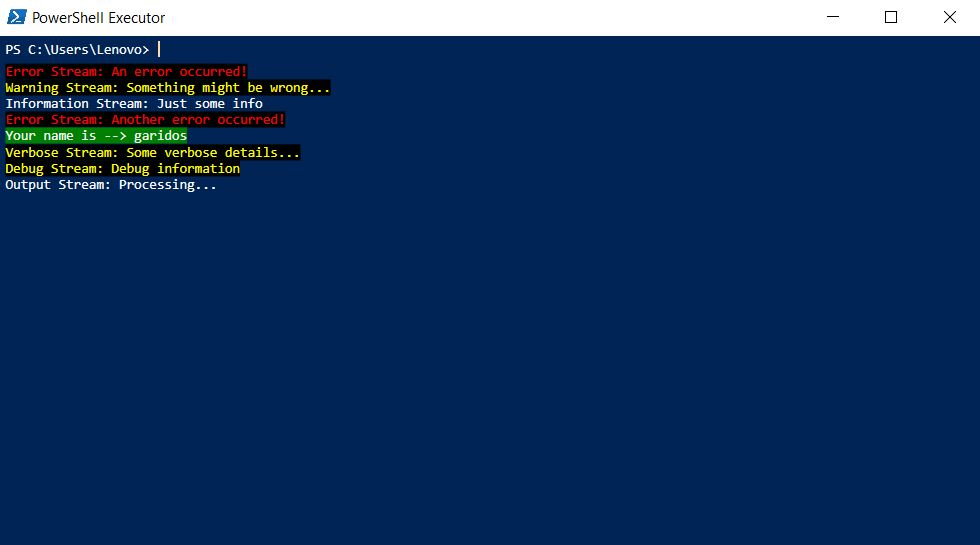
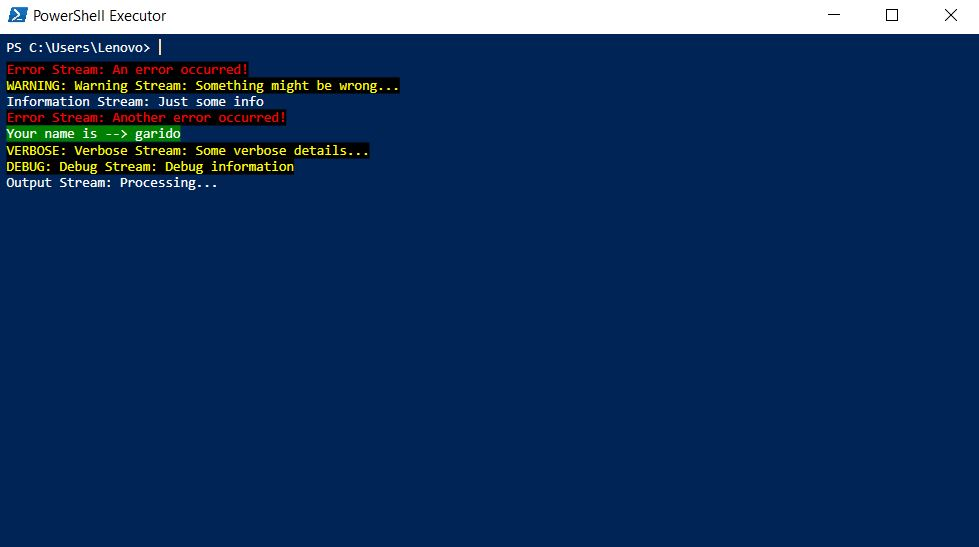
Improve stream output formatting and update example image

Changed region(s): [[0.0, 0.0, 1.0, 0.3743]]

diff --git a/PowerShellExecutor/PowerShellExecutor/ViewModels/MainWindowViewModel.cs b/PowerShellExecutor/PowerShellExecutor/ViewModels/MainWindowViewModel.cs
@@ -42,13 +42,7 @@ public class MainWindowViewModel
     private Task<PSObject?>? _commandExecutionTask;
     
     private readonly Action _closeWindowAction;
-    
     private readonly RichTextBox _commandResultRichTextBox;
-    
-    /// <summary>
-    /// Gets the bindings instance that contains properties and commands for data binding in the main window ViewModel
-    /// </summary>
-    public MainWindowViewModelBindings Bindings { get; }
 
     /// <summary>
     /// Initializes a new instance of the <see cref="MainWindowViewModel"/> class
@@ -94,31 +88,11 @@ public class MainWindowViewModel
         // Set initial working directory path
         Bindings.WorkingDirectoryPath = _powerShellService.WorkingDirectoryPath;
     }
-
-    private void HandleErrorStreamInput(ErrorRecord errorRecord)
-    {
-        CommandResultAddLine(errorRecord.ToSingleLineString(), CommandOutputColors.Error);
-    }
-
-    private void HandleWarningStreamInput(WarningRecord warningMessage)
-    {
-        CommandResultAddLine(warningMessage.ToSingleLineString(), CommandOutputColors.Warning);
-    }
-
-    private void HandleVerboseStreamInput(VerboseRecord verboseMessage)
-    {
-        CommandResultAddLine(verboseMessage.ToSingleLineString(), CommandOutputColors.Verbose);
-    }
-
-    private void HandleDebugStreamInput(DebugRecord debugMessage)
-    {
-        CommandResultAddLine(debugMessage.ToSingleLineString(), CommandOutputColors.Debug);
-    }
-
-    private void HandleInformationStreamInput(InformationRecord informationMessage)
-    {
-        CommandResultAddLine(informationMessage.ToSingleLineString(), CommandOutputColors.Information);
-    }
+    
+    /// <summary>
+    /// Gets the bindings instance that contains properties and commands for data binding in the main window ViewModel
+    /// </summary>
+    public MainWindowViewModelBindings Bindings { get; }
 
     /// <summary>
     /// Writes the specified objects to the host output using the specified colors and format options
@@ -391,6 +365,51 @@ public class MainWindowViewModel
             _commandResultRichTextBox.Document?.Blocks.Clear();
         });
     }
+    
+    /// <summary>
+    /// Handles input from the PowerShell's error stream
+    /// </summary>
+    /// <param name="errorRecord">
+    /// The <see cref="ErrorRecord"/> object representing the error details from the PowerShell execution
+    /// </param>
+    private void HandleErrorStreamInput(ErrorRecord errorRecord) =>
+        CommandResultAddLine(errorRecord.ToSingleLineString(), CommandOutputColors.Error);
+
+    /// <summary>
+    /// Handles input from the PowerShell's warning stream
+    /// </summary>
+    /// <param name="warningRecord">
+    /// The <see cref="WarningRecord"/> object representing the error details from the PowerShell execution
+    /// </param>
+    private void HandleWarningStreamInput(WarningRecord warningRecord) =>
+        CommandResultAddLine(warningRecord.ToSingleLineString("WARNING: "), CommandOutputColors.Warning);
+
+    /// <summary>
+    /// Handles input from the PowerShell's verbose stream
+    /// </summary>
+    /// <param name="verboseRecord">
+    /// The <see cref="VerboseRecord"/> object representing the error details from the PowerShell execution
+    /// </param>
+    private void HandleVerboseStreamInput(VerboseRecord verboseRecord) =>
+        CommandResultAddLine(verboseRecord.ToSingleLineString("VERBOSE: "), CommandOutputColors.Verbose);
+
+    /// <summary>
+    /// Handles input from the PowerShell's debug stream
+    /// </summary>
+    /// <param name="debugRecord">
+    /// The <see cref="DebugRecord"/> object representing the error details from the PowerShell execution
+    /// </param>
+    private void HandleDebugStreamInput(DebugRecord debugRecord) =>
+        CommandResultAddLine(debugRecord.ToSingleLineString("DEBUG: "), CommandOutputColors.Debug);
+    
+    /// <summary>
+    /// Handles input from the PowerShell's information stream
+    /// </summary>
+    /// <param name="informationRecord">
+    /// The <see cref="InformationRecord"/> object representing the error details from the PowerShell execution
+    /// </param>
+    private void HandleInformationStreamInput(InformationRecord informationRecord) =>
+        CommandResultAddLine(informationRecord.ToSingleLineString(), CommandOutputColors.Information);
 
     /// <summary>
     /// Converts a <see cref="ConsoleColor"/> to a <see cref="Color"/>

diff --git a/PowerShellExecutor/PowerShellExecutor/Helpers/Extensions.cs b/PowerShellExecutor/PowerShellExecutor/Helpers/Extensions.cs
@@ -7,13 +7,13 @@ public static class Extensions
     /// <summary>
     /// Converts the string representation of an object to a single line, optionally prefixed, without a trailing newline.
     /// </summary>
-    /// <param name="obj">The object to convert to a single-line string.</param>
-    /// <param name="linePrefix">An optional prefix to prepend to the string. Default is <c>null</c>.</param>
-    /// <returns>A single-line string representation of the object without a trailing newline.</returns>
+    /// <param name="obj">The object to convert to a single-line string</param>
+    /// <param name="linePrefix">An optional prefix to prepend to the string. Default is <c>null</c></param>
+    /// <returns>A single-line string representation of the object without a trailing newline</returns>
     public static string ToSingleLineString(this object obj, string? linePrefix = null)
     {
         var strBuilder = new StringBuilder();
-        strBuilder.Append(obj);
+        strBuilder.Append(linePrefix).Append(obj);
         
         var str = strBuilder.ToString();
         
